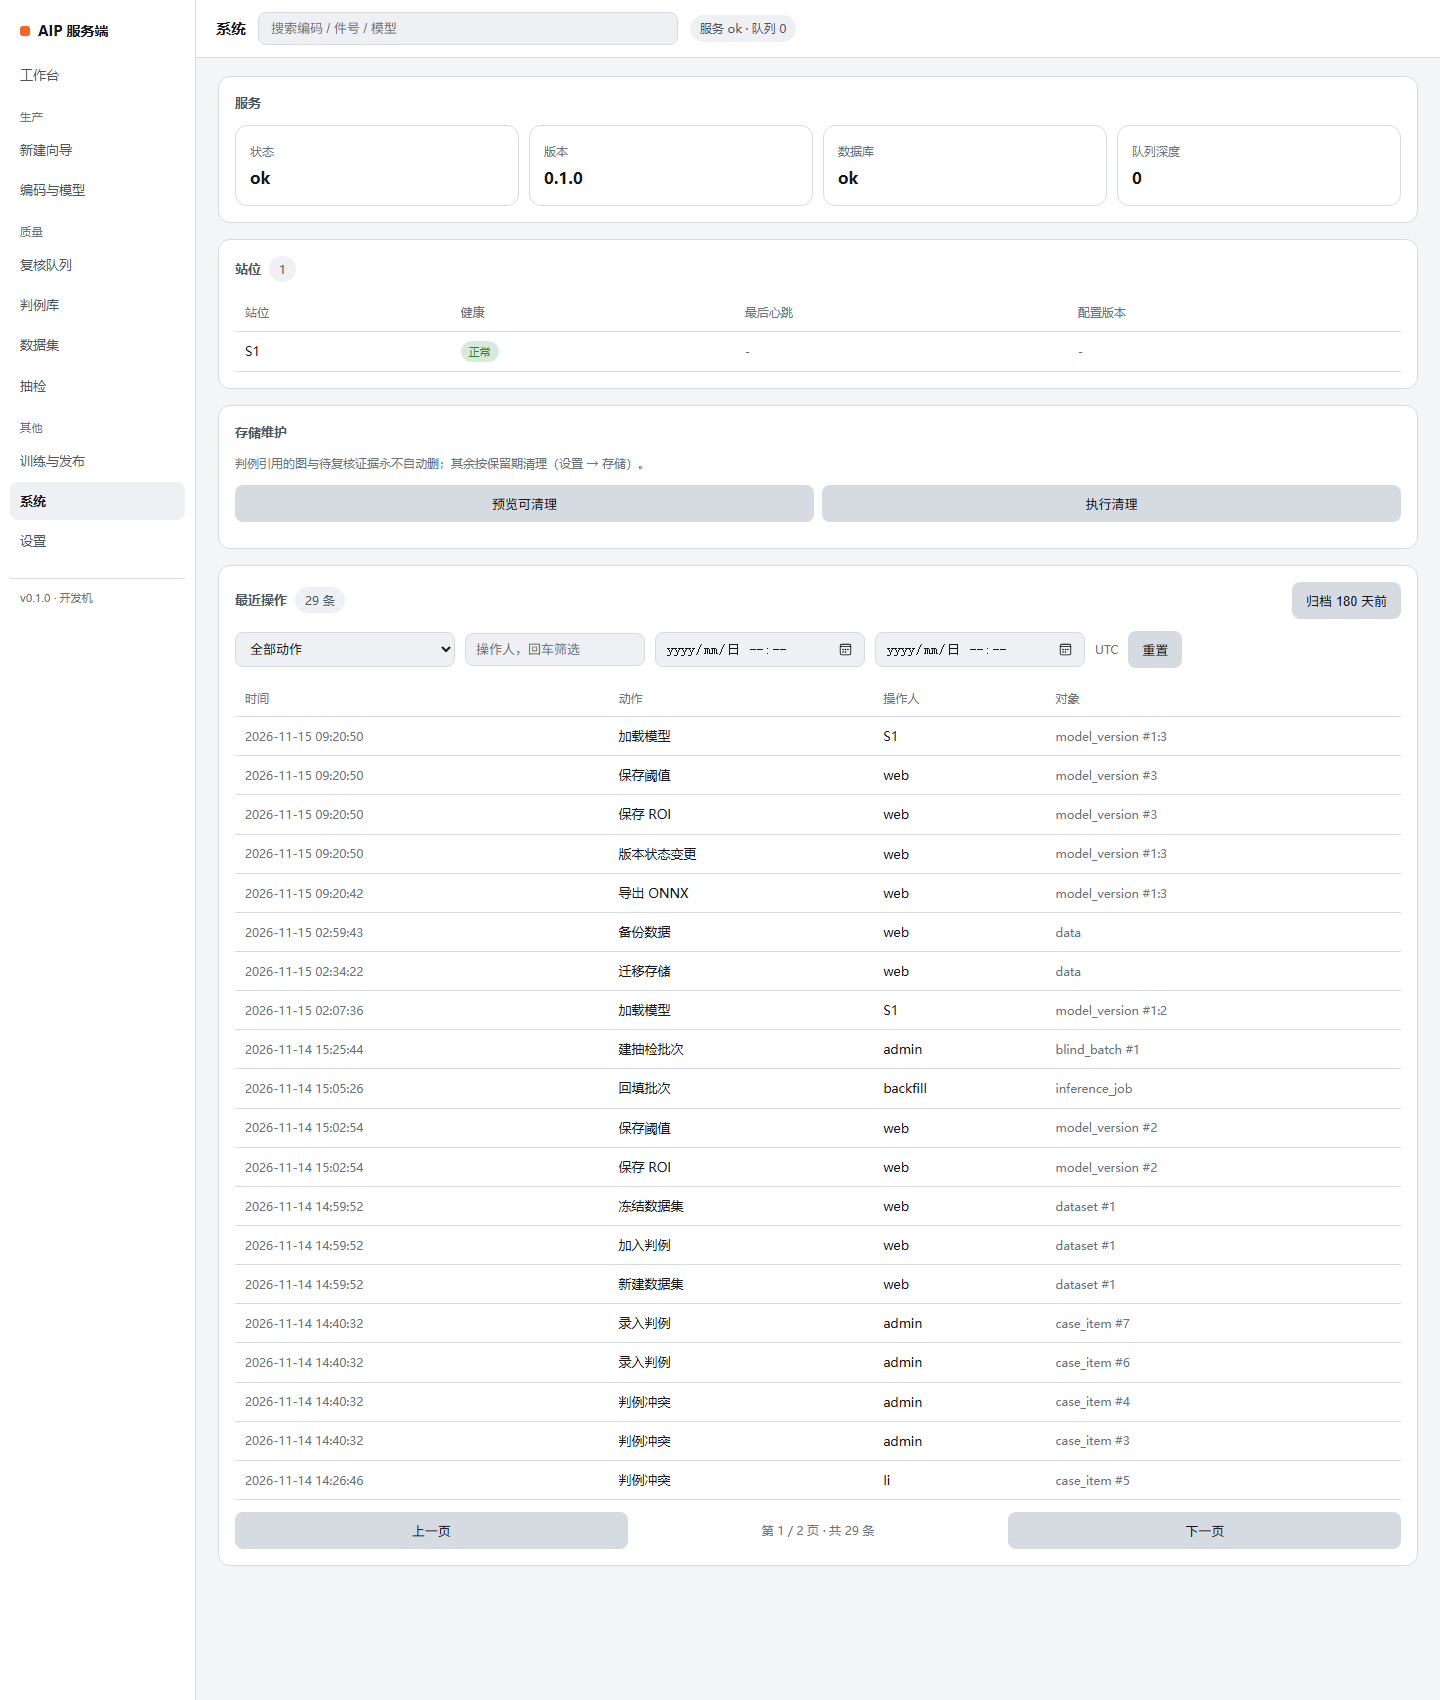
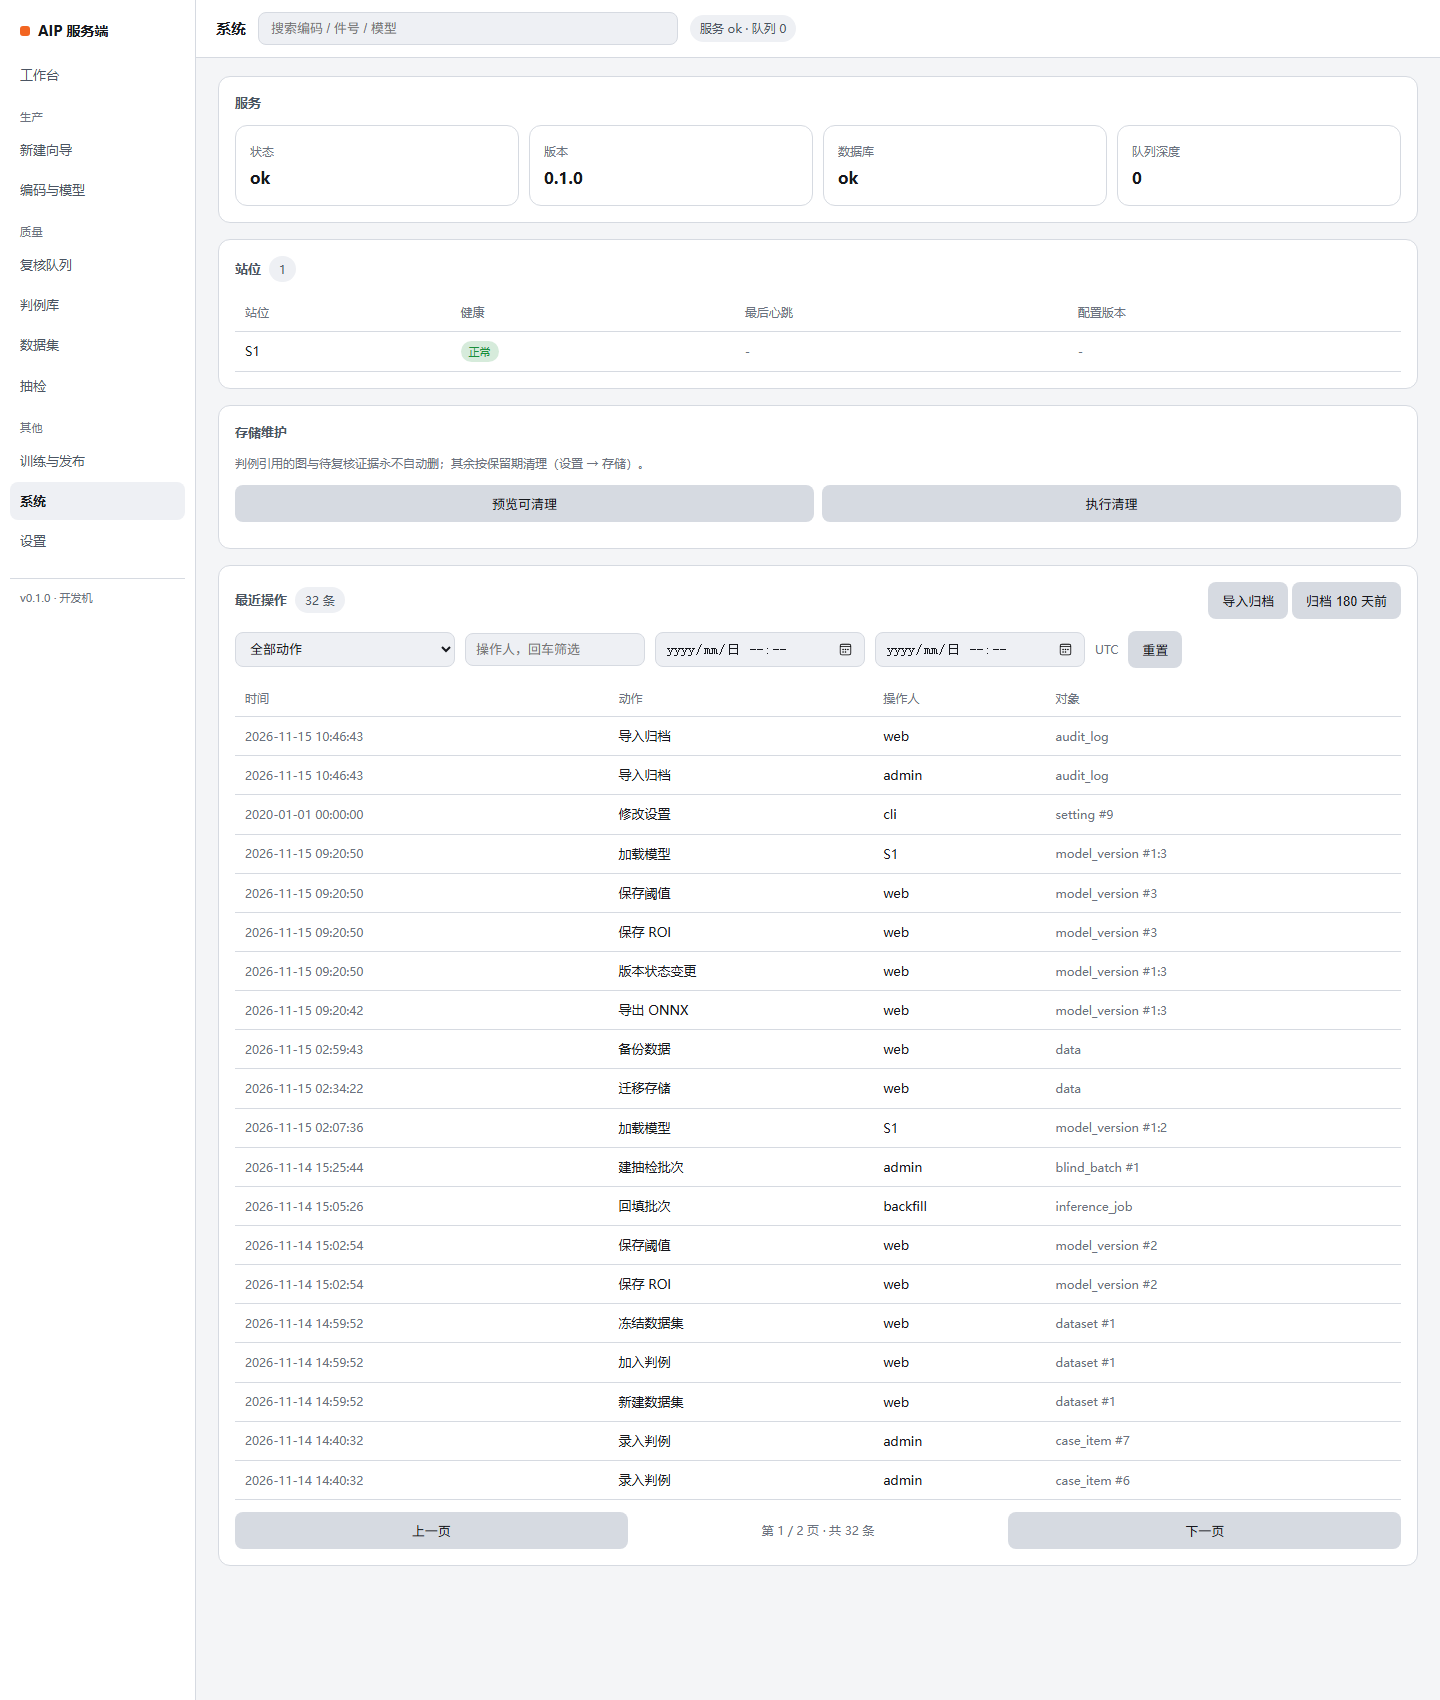
feat: 审计归档导入（CSV 回读、去重、预检）；补审计动作中文

diff --git a/aip/web/admin.html b/aip/web/admin.html
@@ -354,7 +354,7 @@ const ACTIONS = {
   "case.archive": "归档判例", "case.restore": "恢复判例", "case.conflict": "判例冲突",
   "setting.update": "修改设置", "setting.bulk_update": "批量修改设置",
   "storage.backup": "备份数据", "storage.move": "迁移存储", "storage.restore": "还原数据",
-  "storage.retention": "清理过期证据", "train.start": "启动训练", "train.cancel": "取消训练",
+  "storage.retention": "清理过期证据", "audit.archive": "归档审计", "audit.import": "导入归档", "train.start": "启动训练", "train.cancel": "取消训练",
   "model.rollback": "回滚版本", "model.archive": "归档模型", "model.patch": "模型改名",
   "code.patch": "修改编码", "code.active": "启用/停用编码",
   "code.archive": "归档编码", "code.restore": "恢复编码", "family.create": "新建族",
@@ -1683,7 +1683,10 @@ async function renderSystem() {
 
     <section>
       <h2>最近操作 <span class="pill">${auditTotal} 条</span>
-        <span style="margin-left:auto"><button class="ghost" id="btnArchiveAudit">归档 180 天前</button></span></h2>
+        <span style="margin-left:auto">
+          <button class="ghost" id="btnImportAudit">导入归档</button>
+          <button class="ghost" id="btnArchiveAudit">归档 180 天前</button>
+        </span></h2>
       <div class="filterbar">
         <select id="sys_action" style="max-width:220px">
           <option value="">全部动作</option>

diff --git a/aip/src/aip/audit_import.py b/aip/src/aip/audit_import.py
@@ -1,0 +1,94 @@
+"""审计归档导入：把归档 CSV 读回 audit_log。
+
+- 只接受本系统导出的列（id/actor/action/entity/entity_id/payload/created_at）；
+- 按 (actor, action, entity, entity_id, created_at) 去重，重复导入不会翻倍；
+- 保留原 created_at，id 由数据库重新分配；
+- 先预检（行数/重复/非法行），再执行；导入动作写一条 audit.import。
+"""
+
+from __future__ import annotations
+
+import csv
+import sqlite3
+from pathlib import Path
+
+from .audit import record
+from .store import tx
+
+REQUIRED = ["actor", "action", "entity", "created_at"]
+MAX_ROWS = 20000
+
+
+class ImportError_(Exception):
+    pass
+
+
+def inspect_csv(path: str | Path) -> dict:
+    file = Path(path).expanduser()
+    if not file.is_file():
+        raise ImportError_(f"归档文件不存在: {file}")
+    if file.suffix.lower() != ".csv":
+        raise ImportError_("只支持 .csv 归档文件")
+
+    problems: list[str] = []
+    rows: list[dict] = []
+    try:
+        with file.open(encoding="utf-8-sig", newline="") as fh:
+            reader = csv.DictReader(fh)
+            header = reader.fieldnames or []
+            missing = [c for c in REQUIRED if c not in header]
+            if missing:
+                raise ImportError_(f"缺少列: {', '.join(missing)}")
+            for row in reader:
+                if len(rows) >= MAX_ROWS:
+                    problems.append(f"超过单次导入上限 {MAX_ROWS} 行，请拆分文件")
+                    break
+                if not (row.get("created_at") or "").strip():
+                    continue
+                rows.append(row)
+    except csv.Error as exc:
+        raise ImportError_(f"CSV 解析失败: {exc}") from exc
+
+    return {"path": str(file), "rows": rows, "count": len(rows), "problems": problems}
+
+
+def _exists(conn: sqlite3.Connection, row: dict) -> bool:
+    hit = conn.execute(
+        "SELECT 1 FROM audit_log WHERE actor = ? AND action = ? AND entity = ?"
+        " AND COALESCE(entity_id, '') = ? AND created_at = ? LIMIT 1",
+        (row.get("actor") or "", row.get("action") or "", row.get("entity") or "",
+         row.get("entity_id") or "", row.get("created_at")),
+    ).fetchone()
+    return hit is not None
+
+
+def import_csv(conn: sqlite3.Connection, path: str | Path, apply: bool = False,
+               actor: str = "web") -> dict:
+    info = inspect_csv(path)
+    if info["problems"]:
+        raise ImportError_("；".join(info["problems"]))
+
+    duplicates = sum(1 for row in info["rows"] if _exists(conn, row))
+    fresh = info["count"] - duplicates
+
+    if not apply:
+        return {**info, "rows": None, "duplicates": duplicates, "fresh": fresh, "imported": 0}
+
+    inserted = 0
+    with tx(conn):
+        for row in info["rows"]:
+            if _exists(conn, row):
+                continue
+            conn.execute(
+                "INSERT INTO audit_log (actor, action, entity, entity_id, payload, created_at)"
+                " VALUES (?, ?, ?, ?, ?, ?)",
+                (row.get("actor") or "", row.get("action") or "", row.get("entity") or "",
+                 row.get("entity_id") or None, row.get("payload") or None, row["created_at"]),
+            )
+            inserted += 1
+        record(conn, actor=actor, action="audit.import", entity="audit_log",
+               payload={"path": str(Path(path).expanduser()), "inserted": inserted,
+                        "duplicates": info["count"] - inserted})
+
+    return {**info, "rows": None, "duplicates": info["count"] - inserted,
+            "fresh": inserted, "imported": inserted}

diff --git a/tests/test_audit_import.py b/tests/test_audit_import.py
@@ -1,0 +1,84 @@
+"""审计归档导入验收。"""
+
+from __future__ import annotations
+
+import csv
+
+import pytest
+from fastapi.testclient import TestClient
+
+from aip import store, whitelist
+from aip.api.app import create_app
+
+
+@pytest.fixture()
+def client(tmp_path, monkeypatch):
+    monkeypatch.setenv("AIP_WHITELIST", str(tmp_path / "none.yaml"))
+    whitelist.reset_cache()
+    db = tmp_path / "data" / "aip.db"
+    db.parent.mkdir()
+    conn = store.connect(db)
+    store.migrate(conn)
+    for i, ts in enumerate(["2020-01-01T00:00:00.000Z", "2020-06-01T00:00:00.000Z"]):
+        conn.execute(
+            "INSERT INTO audit_log (actor, action, entity, entity_id, created_at)"
+            " VALUES ('alice','setting.update','setting',?,?)",
+            (str(i), ts),
+        )
+    conn.commit()
+    conn.close()
+    return TestClient(create_app(db))
+
+
+def _archive(client):
+    return client.post(
+        "/api/maintenance/audit/archive", json={"days": 180, "apply": True, "actor": "admin"}
+    ).json()
+
+
+def test_import_restores_archived_rows(client):
+    out = _archive(client)
+    assert out["archived"] == 2
+    before = client.get("/api/audit").json()["total"]
+
+    plan = client.post(
+        "/api/maintenance/audit/import", json={"path": out["path"], "apply": False}
+    ).json()
+    assert plan["count"] == 2
+    assert plan["fresh"] == 2
+    assert client.get("/api/audit").json()["total"] == before  # 预检不写库
+
+    applied = client.post(
+        "/api/maintenance/audit/import", json={"path": out["path"], "apply": True, "actor": "admin"}
+    ).json()
+    assert applied["imported"] == 2
+    assert client.get("/api/audit").json()["total"] == before + 2 + 1  # +1 导入动作
+
+
+def test_import_twice_is_idempotent(client):
+    out = _archive(client)
+    first = client.post(
+        "/api/maintenance/audit/import", json={"path": out["path"], "apply": True}
+    ).json()
+    assert first["imported"] == 2
+    second = client.post(
+        "/api/maintenance/audit/import", json={"path": out["path"], "apply": True}
+    ).json()
+    assert second["imported"] == 0
+    assert second["duplicates"] == 2
+
+
+def test_import_rejects_bad_csv(client, tmp_path):
+    bad = tmp_path / "bad.csv"
+    bad.write_text("foo,bar\n1,2\n", encoding="utf-8")
+    resp = client.post("/api/maintenance/audit/import", json={"path": str(bad), "apply": False})
+    assert resp.status_code == 400
+    assert resp.json()["error_code"] == "audit_import_failed"
+
+
+def test_import_missing_file(client):
+    resp = client.post(
+        "/api/maintenance/audit/import",
+        json={"path": str(client.app.state.db_path.parent / "nope.csv"), "apply": False},
+    )
+    assert resp.status_code == 400

diff --git a/scripts/archive_audit.py b/scripts/archive_audit.py
@@ -14,7 +14,7 @@ from pathlib import Path
 ROOT = Path(__file__).resolve().parents[1]
 sys.path.insert(0, str(ROOT / "aip" / "src"))
 
-from aip import audit_archive, store  # noqa: E402
+from aip import audit_archive, audit_import, store  # noqa: E402
 from aip.settings import get_value  # noqa: E402
 
 
@@ -23,10 +23,19 @@ def main() -> int:
     parser.add_argument("--db", default=str(ROOT / "data" / "aip.db"))
     parser.add_argument("--days", type=int, default=None)
     parser.add_argument("--apply", action="store_true")
+    parser.add_argument("--import-csv", default=None, help="导入归档 CSV（配合 --apply 写入）")
     args = parser.parse_args()
 
     conn = store.connect(args.db)
     try:
+        if args.import_csv:
+            out = audit_import.import_csv(conn, args.import_csv, apply=args.apply, actor="cli")
+            if not args.apply:
+                print(f"可导入 {out['count']} 行（重复 {out['duplicates']}）")
+            else:
+                print(f"已导入 {out['imported']} 行（跳过重复 {out['duplicates']}）")
+            return 0
+
         days = args.days or int(get_value(conn, "audit.retention_days"))
         if not args.apply:
             plan = audit_archive.plan(conn, days)

diff --git a/aip/src/aip/api/routes_settings.py b/aip/src/aip/api/routes_settings.py
@@ -11,6 +11,7 @@ from pathlib import Path
 
 from .. import retention
 from .. import audit_archive
+from .. import audit_import
 from .. import backup as backup_mod
 from .. import storage as storage_mod
 from ..storage import is_locked
@@ -161,3 +162,19 @@ def audit_archive_apply(body: ArchiveIn, conn: sqlite3.Connection = Depends(get_
         )}
     except audit_archive.ArchiveError as exc:
         raise ApiError("archive_invalid", str(exc), "保留天数至少 30 天", 400) from exc
+
+
+class AuditImportIn(BaseModel):
+    path: str
+    apply: bool = False
+    actor: str = "web"
+
+
+@router.post("/maintenance/audit/import")
+def audit_import_csv(body: AuditImportIn, conn: sqlite3.Connection = Depends(get_conn)) -> dict:
+    try:
+        return {"dry_run": not body.apply, **audit_import.import_csv(
+            conn, body.path, apply=body.apply, actor=body.actor
+        )}
+    except audit_import.ImportError_ as exc:
+        raise ApiError("audit_import_failed", str(exc), "检查 CSV 是否为系统导出的归档", 400) from exc

diff --git a/docs/designs/storage-layout.md b/docs/designs/storage-layout.md
@@ -55,7 +55,10 @@
 3. 导出成功后从 `audit_log` 删除；归档动作本身写一条 `audit.archive` 审计；
 4. 也可用 CLI：`python scripts/archive_audit.py [--days 90] [--apply]`。
 
-归档是删库前先落盘，所以 CSV 就是事后追溯的唯一副本——要长期保存请把 `audit-archive/` 一并备份。
+'归档是删库前先落盘，所以 CSV 就是事后追溯的唯一副本——要长期保存请把 `audit-archive/` 一并备份。
+
+**导回**：系统 → 「导入归档」或 `python scripts/archive_audit.py --import-csv <文件> [--apply]`。
+按 `(actor, action, entity, entity_id, created_at)` 去重，重复导入不会翻倍；预检不写库。'
 
 ## 备份与还原'
 
